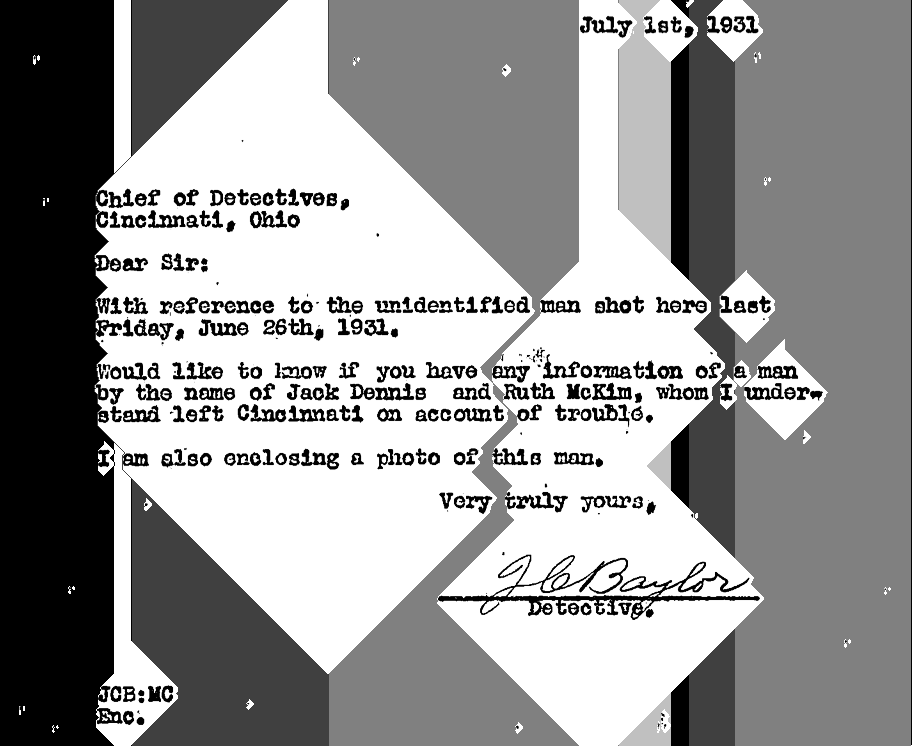
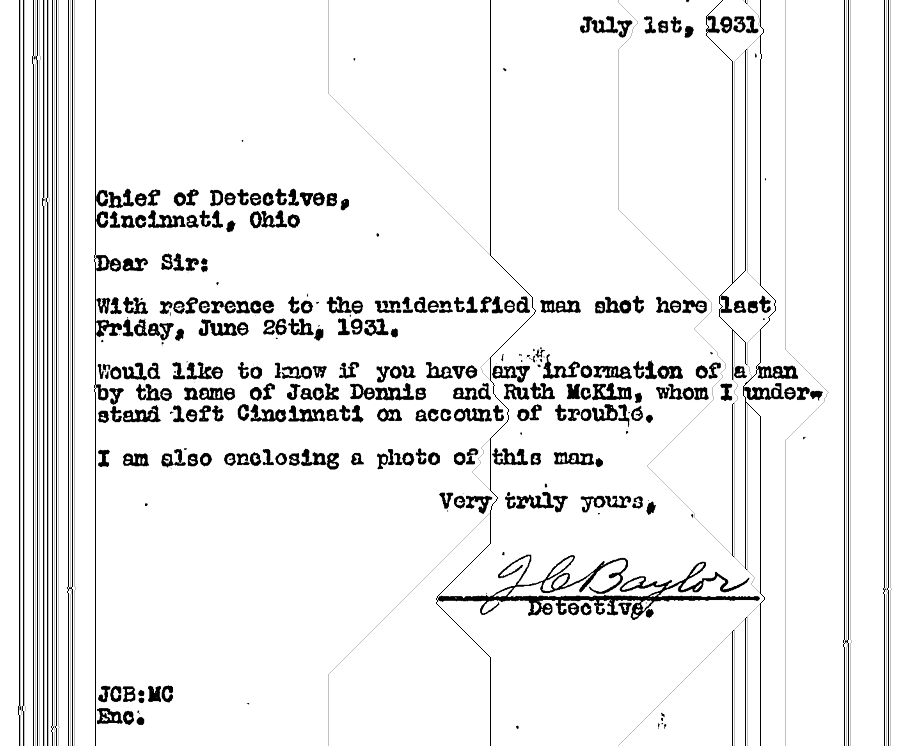
Find beginning and end of interesting areas
Interesting areas begin with a black line and end with a grey line

diff --git a/src/libSeamCarve.c b/src/libSeamCarve.c
@@ -152,19 +152,30 @@ static void findSeamsVertical(int *imageSeams, int imageWidth, int imageHeight, 
 	int countGoL = 0;
 	int countGoR = 0;
 
+	int columnDeviation = 0;
+	int startingColumn = 0;
+	int *lastPath = (int*)malloc((unsigned long)imageHeight * sizeof(int));
+
 	int lastEndingPixel = 0;
-	int seamColor = 0;
-	for (int k = ((imageWidth * imageHeight) - imageWidth - 1); k < ((imageWidth * imageHeight) - 1); ++k) {
+	int seamColor = 192;
+	int seamBagan = 0;
+	for (int k = ((imageWidth * imageHeight) - 1 - imageWidth); k < ((imageWidth * imageHeight) - 1); ++k) {
 		if (imageSeams[k] <= minValue) {
 			minValueLocation = k;
 
+			startingColumn = (minValueLocation + 1) % imageWidth;
+
 			countGoL = 0;
 			countGoR = 0;
+			columnDeviation = 0;
 
 			// from the minimum energy in the bottom row backtrack up the image
-			for (int j = imageHeight; j >= 0; --j) {
+			for (int j = imageHeight; j > 0; --j) {
 				//newImageEnergy[minValueLocation] = 255;
-				imageOrig[minValueLocation] = seamColor;
+				//imageOrig[minValueLocation] = seamColor;
+				
+				columnDeviation += startingColumn - ((minValueLocation + 1) % imageWidth);
+				lastPath[j] = minValueLocation;
 
 				// new
 				aboveL = imageSeams[minValueLocation - imageWidth - 1];
@@ -204,10 +215,35 @@ static void findSeamsVertical(int *imageSeams, int imageWidth, int imageHeight, 
 				}
 			}
 
-			//if ((countGoL > 0) || (countGoR > 0)) {
-			if (minValueLocation > (lastEndingPixel + 1)) {
-				seamColor += 64;
-			}
+			//if (columnDeviation != 0) {
+			//if ((countGoL > countGoR) || (countGoR > countGoL)) {
+			//if (minValueLocation > (lastEndingPixel + 1)) {
+				//seamColor += 64;
+				if (columnDeviation > 0) {
+				//if (seamBagan == 0) {
+					if (seamBagan == 0) {
+						int currentPixel = 0;
+						for (int j = imageHeight; j > 0; --j) {
+							currentPixel = lastPath[j];
+							imageOrig[currentPixel] = 0;
+						}
+
+						seamBagan = 1;
+						seamColor = 0;
+					}
+				} else {
+					if (seamBagan == 1) {
+						int currentPixel = 0;
+						for (int j = imageHeight; j > 0; --j) {
+							currentPixel = lastPath[j];
+							imageOrig[currentPixel] = 192;
+						}
+
+						seamBagan = 0;
+						seamColor = 192;
+					}
+				}
+			//}
 			lastEndingPixel = minValueLocation;
 		}
 	}
@@ -294,6 +330,7 @@ static void findSeamsHorizontal(int *imageSeams, int imageWidth, int imageHeight
 			countGoB = 0;
 
 			// from the minimum energy in the bottom row backtrack up the image
+			// TODO: Change base condition below to > instead of >=
 			for (int j = imageWidth; j >= 0; --j) {
 				//newImageEnergy[minValueLocation] = 255;
 				imageOrig[minValueLocation] = seamColor;
@@ -390,7 +427,7 @@ static int *seamCarve(int *imageVector, int imageWidth, int imageHeight)
 	//findSeamsHorizontal(newImageSeams2, imageWidth, imageHeight, newImage);
 
 	return newImage;
-	return newImageSeams2;
+	//return newImageSeams2;
 	return newImageEnergy;
 }
 
